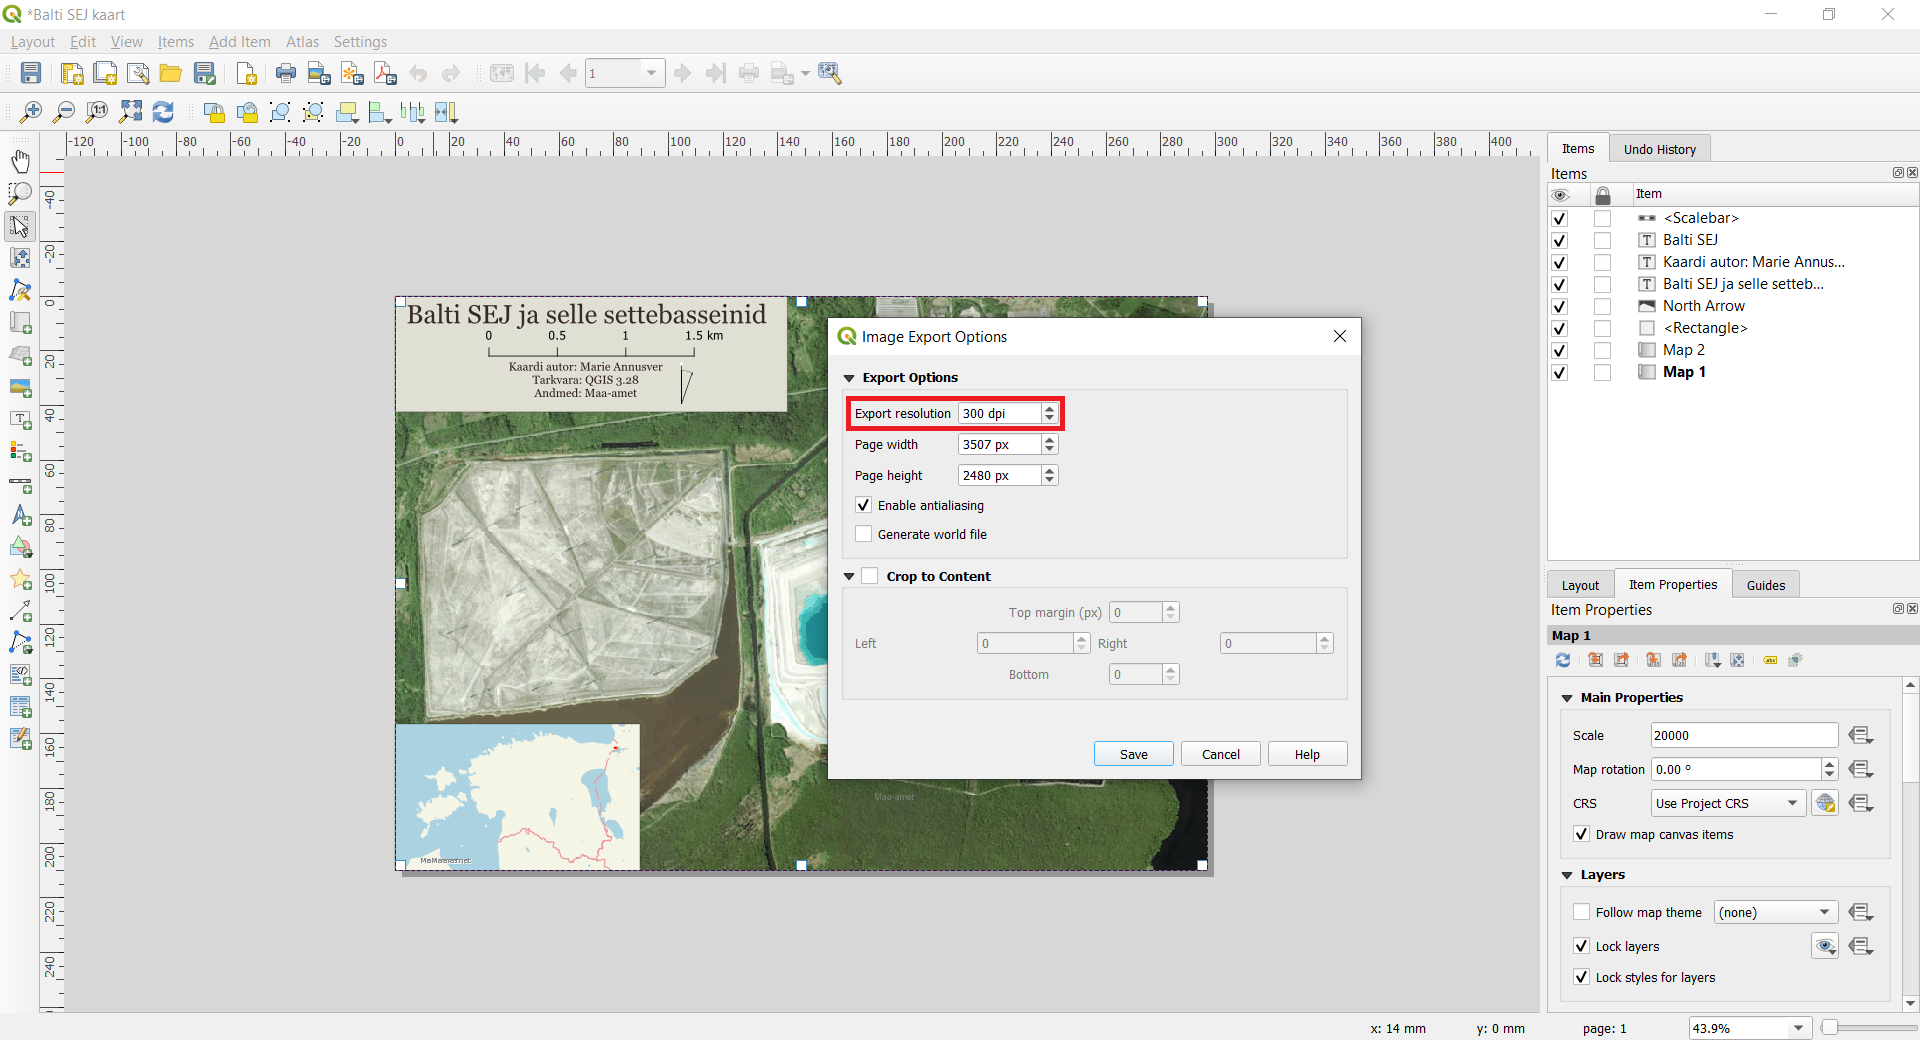
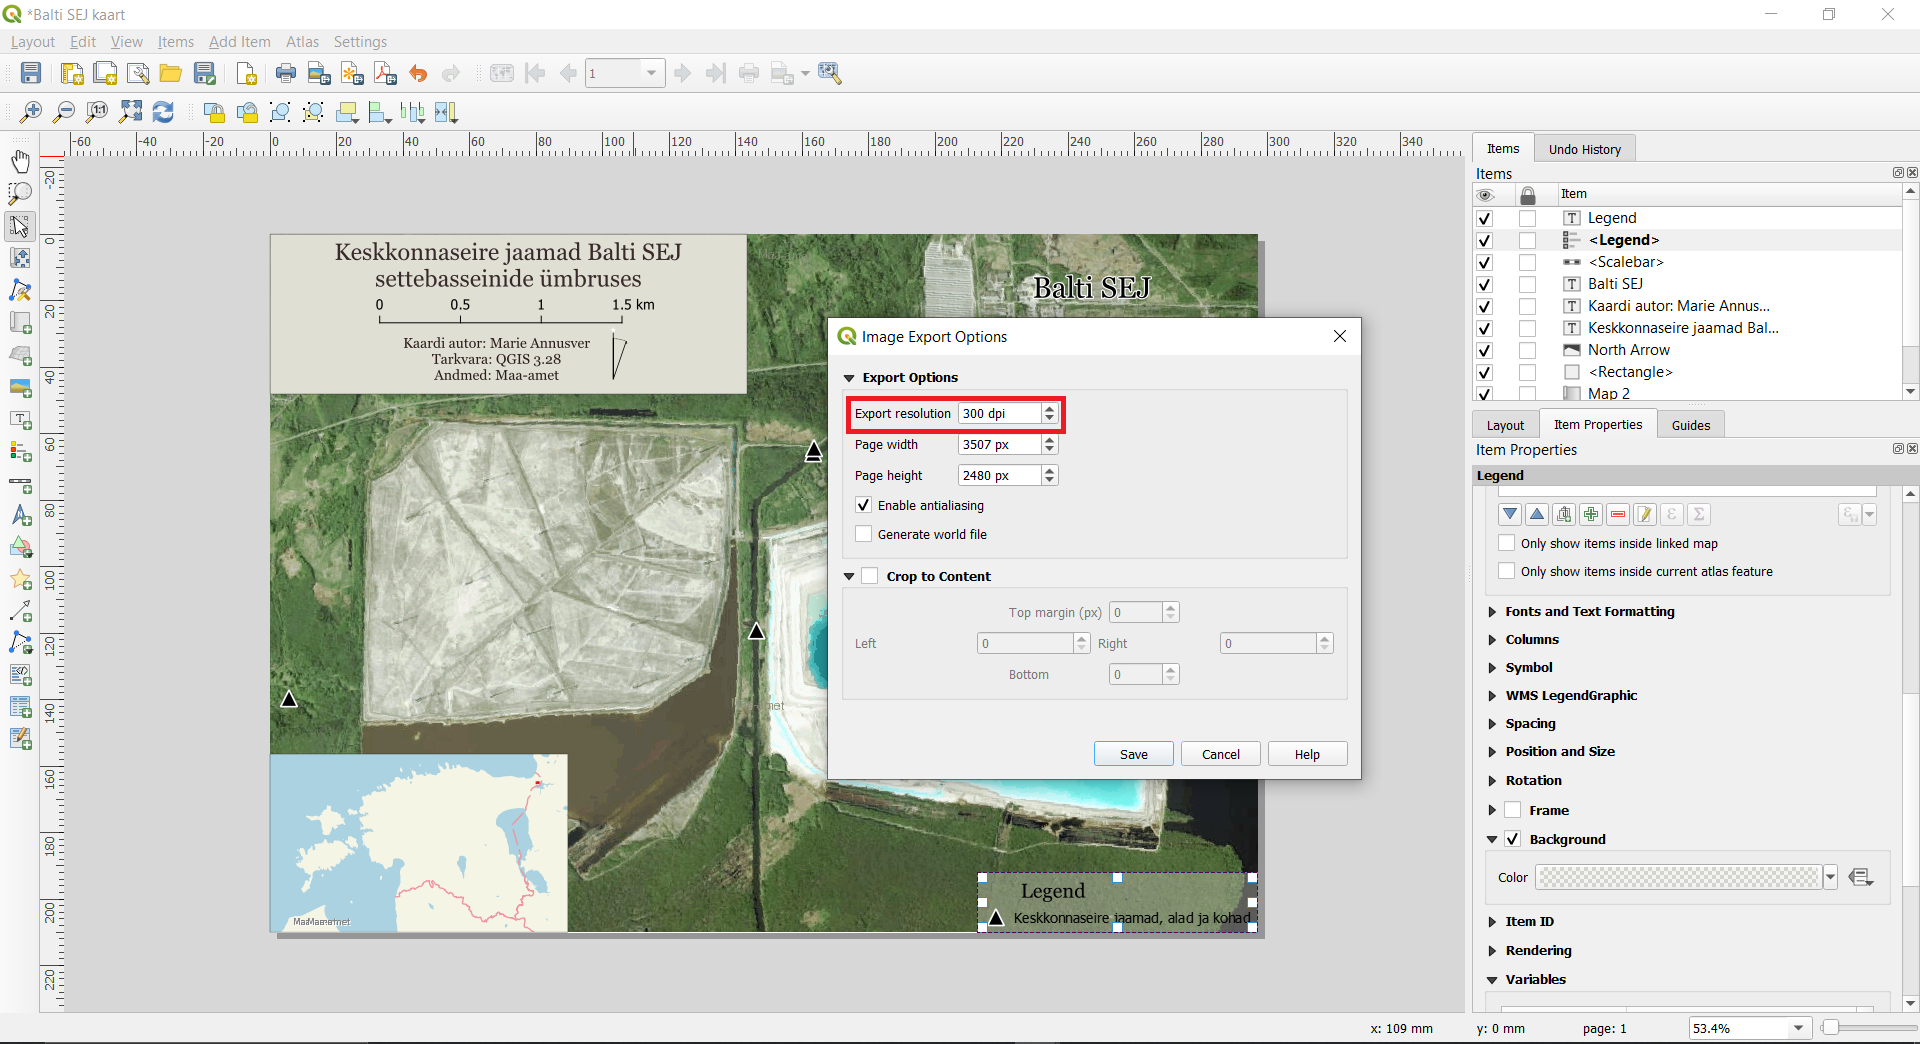
kaardi tegemise parandused 2

diff --git a/_posts/qgis/2024-07-11-making-a-map-est.md b/_posts/qgis/2024-07-11-making-a-map-est.md
@@ -76,27 +76,19 @@ Antud ülesandes kasutame [<span style="color:#0564A0">Maa-ameti WMS-teenust</sp
 ![image of add scale bar](../../images/e2_add_scalebar.png)
 
 #### 2.4. Kaardile legendi lisamine
-28. Finally, we will add legend to the map. Click on `Add Item ► Add Legend` or alternatively click on Add Legend
-![image of add scale bar](../../images/icon_add legend.png). Click on the layout where you want the scalebar to appear and holding left-side mouse button draw a rectangle. The legend should appear and it will cover most of the map as it is pulling automatically the legend info from all the layers in the Map view. We need to switch off most of the layers from the legend. In the Item Properties tab, scroll down to Legend items and uncheck the Auto update  under the Legend items. This will disconnect the legend from the map view layer panel and several legend adjustment buttons will become active.
-![image of add legend](../../images/2_add legend.png)
-29. We will first remove all the unnecessary layers from the legend. Under the Legend items, select all layers except <span style="font-family:Consolas; color:#AF1B03">z7 / 1:4</span> and click Remove selected item(s) from legend.
-![image of add legend](../../images/2_delete legend items.png)
-30. For the simplicity, we will show only cities and other populated places in the legend. Therefore we will delete all other sublayers of the <span style="font-family:Consolas; color:#AF1B03">z7 / 1:4</span>. Click on the small arrow next to the layer group name under Legend items. This should reveal sublayers of the group. Delete all sublayers of the <span style="font-family:Consolas; color:#AF1B03">z7 / 1:4</span> except layer <span style="font-family:Consolas; color:#AF1B03">ne_10m_populated_places z7</span>
-![image of add legend](../../images/2_delete legend items2.png)
-31. Click on the small arrow in front of the layer <span style="font-family:Consolas; color:#AF1B03">ne_10m_populated_places z7</span> to see all of its sublayers. Delete all sublayers except <span style="font-family:Consolas; color:#AF1B03">Admin-0 capital, Admin-1 capital, Populated place</span>.
-![image of add legend](../../images/2_delete legend items3.png)
-32. We will now change the names of the legend items more appropriate. Double click on the <span style="font-family:Consolas; color:#AF1B03">z7 / 1:4m</span> and delete the text and just enter space. The QGIS won't accept leaving the place empty but as we don't need text there then entering space will allow it to keep seemingly empty.
-![image of rename legend items](../../images/2_rename legend items.png).
-33. Delete also the layer name of <span style="font-family:Consolas; color:#AF1B03">ne_10m_populated_places z7</span> similarly to previous step.
-34. Rename layer name <span style="font-family:Consolas; color:#AF1B03">Admin-0 capital</span> to <span style="font-family:Consolas; color:#AF1B03">Capital city</span>, layer name <span style="font-family:Consolas; color:#AF1B03">Admin-1 capital</span> to <span style="font-family:Consolas; color:#AF1B03"> Administrative unit capital</span>.
-![image of rename legend items](../../images/2_rename legend items2.png)
-35. Because of deleting some of the layer names, there is too much white space on the top of the legend. We will remove this by using Spacing options under Legend properties. Scroll down in the Legend Item properties tab to Spacing. Open it's options by clicking on a small arrow next to it. Change the value of Legend Title ‣ Space below to zero and Subgroups ‣ Above subgroup also zero. Note while doing that how the legend changes.
-![image of change legend spacing](../../images/2_change legend spacing.png)
-36. We will add a title to the legend. Click `Add Item ► Add Label` or alternatively click on Add Label ![image of add label](../../images/icon_add label.png) and while holding left-side mouse button draw a label box to the legend. Rename it to "Legend"
-![image of add legend title](../../images/2_add_legend title.png)
-37. Finally, we will make the legend background more fitting with the map. In the legend's Item Properties tab scroll down to Background and click on the color option. In the color options scroll down to Opacity and reduce the opacity to 35%. This will make the legend background partially transparent making it less dominant. The map elements like legend, title, north arrow should not be too dominant on the map itself is the most important.
-![image of add legend background](../../images/2_legend background.png)
-![image of add legend background](../../images/2_legend background2.png)
+28. Lõpetuseks lisame kaardile legendi. Vajuta `Add Item ► Add Legend` või vajuta nupule *Add Legend*
+![image of add scale bar](../../images/icon_add legend.png). Vajuta sinna, kus tahad, et legend oleks. Hoides all vasakut hiireklahvi, tõmba ristkülik. Legend ilmub, mis tõenäoliselt katab väga suure osa kaardist, kuna see võtab automaatselt informatsiooni kõikidelt kaardikihtidelt. Sellepärast peame enamikud kihid legendis välja lülitama. *Item Properties* vahekaardil keri alla, kuni jõuad valikuni *Legend items*. Eemalda linnuke valiku eest *Auto update*. See lahutab legendi *map view* kaardikihtide paneelist ning mitmed legendi muutmise nupud muutuvad aktiivseks. 
+![image of add legend](../../images/e2_add_legend.png)
+29. Kõigepealt eemaldame legendist kõik ebavajalikud kihid. *Legend items* alt valige kõik kihid peale <span style="font-family:Consolas; color:#AF1B03">keskkonnaseire_jaamad</span> ja vajutage nupul *Remove selected item(s)*. 
+![image of add legend](../../images/e2_delete_selected_items.png)
+30. Nüüd muudame legendis objekti nime korrektsemaks. Tee topeltklõps kihi nimel <span style="font-family:Consolas; color:#AF1B03">keskkonnaseire_jaamad</span> ja nimeta see ümber Keskkonnaseire jaamad, alad ja kohad.
+31. Selleks, et legendi objekti kohal oleks rohkem ruumi, vajuta *Legend Properties* ja keri kuni jõuad valikuni *Spacing*. Ava selle valikud vajutades väiksele noolele selle kõrval. Muuda `Legend Title ‣ Space below` väärtus suuremaks. 
+![image of change legend spacing](../../images/e2_change_legend_spacing.png)
+36. Nüüd lisame legendile pealkira. Vajuta `Add Item ► Add Label` või vajuta nupul *Add Label* ![image of add label](../../images/icon_add label.png). Hoia all hiire vasakut klahvi ning tõmba ristkülik legendi ülemisse osasse. Kirjuta sinna "Legend".
+![image of add legend title](../../images/e2_add_legend_title.png)
+37. Viimasena muudame legendi tausta, et see sobiks kaardiga paremini. Legendi *Item Properties* vahekaardil keri kuni jõuad valikuni *Basckbround* ja vajuta värvivalikul. Seal keri kuni jõuad valikuni *Opacity* ja vähenda seda kuni 35%. See muudab legendi tausta läbipaistvaks, mis tähendab, et legend ei ole nii domineeriv. Kaardi elemendid nagu legend, pealkiri ja põhjasuuna nool ei tohiks kaardil olla liiga domineerivad, kuna kaart ise on kõige tähtsam. 
+![image of add legend background](../../images/e2_legend_background.png)
+![image of add legend background](../../images/e2_legend_background2.png)
 
 #### 2.5. Kaardi salvestamine pildina
 38. Kui olete kaardiga rahul, siis saate selle pildi, PDF või SVG vormis salvestada. Antud juhedis salvestame kaardi pildina. Vajutage `Click Layout ► Export as Image`. Andke failile sobiv nimi ning kontrollige, et *Image Export Options* all on *Export resolution* 300 dpi. 300 dpi on minimaalne printimiseks nõutud eraldusvõime. Kui soovite kaarti internetis avaldada, siis võite eraldusvõimet vähendada 150-200 dpi-ni. Aga kui kaardi kasutamise eesmärk pole kindel, siis jätke eraldusvõimeks 300 dpi, kuna oleks kahju, kui te kujundate ilusa kaardi, aga keegi ei saa seda halva eraldusvõime tõttu lugeda.

diff --git a/_posts/qgis/2023-07-11-making-a-map.md b/_posts/qgis/2023-07-11-making-a-map.md
@@ -90,7 +90,7 @@ Download the [<span style="color:#0564A0">Natural Earth Quickstart Kit</span>](h
 
 #### 2.5. Adding legend to the map
 28. Finally, we will add legend to the map. Click on `Add Item ► Add Legend` or alternatively click on Add Legend
-![image of add scale bar](../../images/icon_add legend.png). Click on the layout where you want the scalebar to appear and holding left-side mouse button draw a rectangle. The legend should appear and it will cover most of the map as it is pulling automatically the legend info from all the layers in the Map view. We need to switch off most of the layers from the legend. In the Item Properties tab, scroll down to Legend items and uncheck the Auto update  under the Legend items. This will disconnect the legend from the map view layer panel and several legend adjustment buttons will become active.
+![image of add scale bar](../../images/icon_add legend.png). Click on the layout where you want the legend to appear and holding left-side mouse button draw a rectangle. The legend should appear and it will cover most of the map as it is pulling automatically the legend info from all the layers in the Map view. We need to switch off most of the layers from the legend. In the Item Properties tab, scroll down to Legend items and uncheck the Auto update  under the Legend items. This will disconnect the legend from the map view layer panel and several legend adjustment buttons will become active.
 ![image of add legend](../../images/2_add legend.png)
 29. We will first remove all the unnecessary layers from the legend. Under the Legend items, select all layers except <span style="font-family:Consolas; color:#AF1B03">z7 / 1:4</span> and click Remove selected item(s) from legend.
 ![image of add legend](../../images/2_delete legend items.png)
